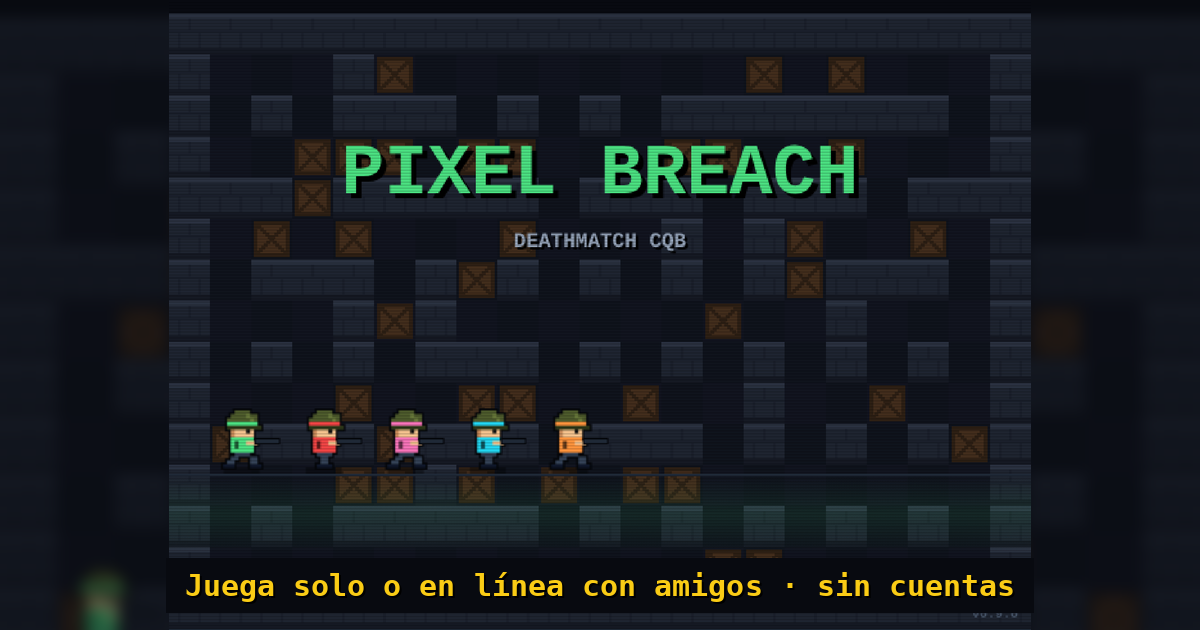
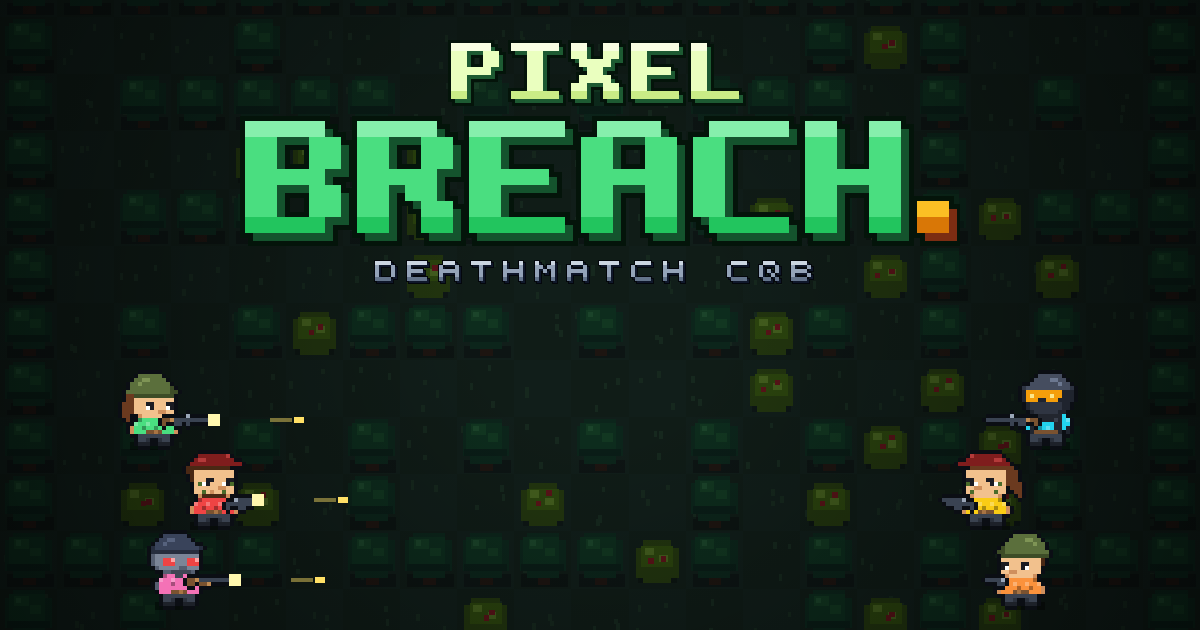
v0.13.3: batalla en la intro con disparos desde el arma e imagen nueva para compartir
Claude-Session: https://claude.ai/code/session_01QC5dV7wWsiQP6RrTtEYh97

diff --git a/js/intro.js b/js/intro.js
@@ -2,7 +2,6 @@
 // Pixel Breach — Intro animada
 // ---------- INTRO ANIMADA ----------
 let introT=0,introLogo=null;
-const INTRO_COLORS=['#4ade80','#ef4444','#f472b6','#22d3ee','#fb923c'];
 function drawIntro(){
  const _v=()=>txt('v'+VERSION,W-10,cv.height-12,10,'#475569','right',false);
  introT+=1/60;const t=introT;
@@ -21,18 +20,48 @@ function drawIntro(){
   ctx.drawImage(p.img,x,y);
  });
  ctx.globalAlpha=1;
- // escuadrón marchando
- const baseY=372,spd=70,gap=64,span=W+gap*6;
- INTRO_COLORS.forEach((c,i)=>{
-  const x=((t*spd+i*gap)%span)-gap*2,frame=Math.floor((t*8)+i)%2?1:2;
-  ctx.fillStyle='rgba(0,0,0,.35)';ctx.fillRect(x-14,baseY+26,28,5);
-  drawSkin(ctx,SKIN_KEYS[i%SKIN_KEYS.length],c,'right',frame,false,['rifle','smg','shotgun','pistol'][i%4],x,baseY+29,2); // el escuadrón luce todos los aspectos
-  if(i===0&&(t%1.6)<.08){ctx.fillStyle='#fff7ae';ctx.fillRect(x+30,baseY+4,7,8);}
- });
- if((t%1.6)<.6){const bx=(((Math.floor(t/1.6)*1.6)*spd)%span)-gap*2+36+((t%1.6)*500);ctx.fillStyle='#ffe066';ctx.fillRect(bx,baseY+4,6,3);}
- ctx.fillStyle='#1f2937';ctx.fillRect(0,baseY+31,W,2);
+ // pequeña batalla: dos equipos de 3 se disparan de lado a lado en tres carriles
+ introBattle(1/60,t);
  _v();
  if(t>1.8&&Math.floor(t*2)%2===0)txt(isTouch?'TOCA PARA CONTINUAR':'PRESIONA CUALQUIER TECLA',W/2,470,16,'#facc15','center');
+}
+// ---- batalla de la intro (solo visual) ----
+let battle=null;
+function initBattle(){
+ const lanes=[318,368,418],A=['#4ade80','#ef4444','#f472b6'],B=['#22d3ee','#fb923c','#facc15'];
+ const SA=['recruitF','commandoM','gas'],SB=['operator','recruitM','commandoF'],WA=['rifle','smg','shotgun'],WB=['rifle','pistol','smg'];
+ const mk=(team,i)=>{const home=team?W-90-[0,40,15][i]:90+[0,40,15][i];
+  return {team,lane:i,y:lanes[i],home,x:team?W+40+i*30:-40-i*30,skin:(team?SB:SA)[i],color:(team?B:A)[i],weapon:(team?WB:WA)[i],
+   cd:rnd(.8,1.6),hp:3,hurt:0,dead:0,ph:rnd(0,6)};};
+ battle={s:[0,1,2].map(i=>mk(0,i)).concat([0,1,2].map(i=>mk(1,i))),b:[],p:[]};
+}
+function introBattle(dt,t){
+ if(!battle)initBattle();
+ const B=battle;
+ for(const s of B.s){
+  if(s.dead>0){s.dead-=dt;if(s.dead<=0){s.hp=3;s.x=s.team?W+40:-40;s.cd=rnd(.8,1.4);}continue;}
+  s.hurt=Math.max(0,s.hurt-dt);s.ph+=dt;
+  const target=s.home+Math.sin(s.ph*.9)*14*(s.team?-1:1); // avanza y retrocede un poco
+  const dx=target-s.x;s.moving=Math.abs(dx)>1.5;s.x+=Math.sign(dx)*Math.min(Math.abs(dx),70*dt);
+  s.cd-=dt;
+  const ready=s.team?s.x<W-20:s.x>20;
+  if(s.cd<=0&&ready){s.cd=rnd(.7,1.5);const face=s.team?'left':'right',tp=gunTip(s.skin,face,s.weapon);
+   const mx=s.x+tp.dx,my=s.y+tp.dy;B.p.push({x:mx,y:my,t:.07,mz:1});B.b.push({x:mx,y:my,v:s.team?-460:460,team:s.team,lane:s.lane});}
+ }
+ for(const b of B.b){b.x+=b.v*dt;
+  const foe=B.s.find(o=>o.team!==b.team&&o.lane===b.lane&&o.dead<=0&&Math.abs(o.x-b.x)<10);
+  if(foe){b.dead=true;foe.hurt=.15;foe.hp--;for(let k=0;k<5;k++)B.p.push({x:foe.x,y:foe.y-4,vx:rnd(-60,60),vy:rnd(-80,20),t:.3,c:'#fca5a5'});
+   if(foe.hp<=0){foe.dead=1.6;for(let k=0;k<14;k++)B.p.push({x:foe.x,y:foe.y-6,vx:rnd(-120,120),vy:rnd(-160,40),t:.6,c:k%2?foe.color:'#e2e8f0'});}}
+  if(b.x<-20||b.x>W+20)b.dead=true;}
+ B.b=B.b.filter(b=>!b.dead);
+ for(const p of B.p){p.t-=dt;if(p.vx!==undefined){p.x+=p.vx*dt;p.y+=p.vy*dt;p.vy+=300*dt;}}
+ B.p=B.p.filter(p=>p.t>0);
+ // dibujo, de atrás hacia adelante
+ for(const s of B.s.slice().sort((a,b)=>a.y-b.y)){if(s.dead>0)continue;
+  ctx.fillStyle='rgba(0,0,0,.35)';ctx.fillRect(s.x-10,s.y+11,20,4);
+  drawSkin(ctx,s.skin,s.color,s.team?'left':'right',s.moving?(Math.floor(t*8+s.lane)%2?1:2):0,s.hurt>0,s.weapon,Math.round(s.x),s.y+13,2);}
+ for(const b of B.b){ctx.fillStyle='rgba(255,224,102,.45)';ctx.fillRect(b.x-(b.v>0?12:-6),b.y-1,6,2);ctx.fillStyle='#ffe066';ctx.fillRect(b.x-2,b.y-2,4,4);}
+ for(const p of B.p){if(p.mz){ctx.fillStyle='#fff7ae';ctx.fillRect(p.x-4,p.y-4,8,8);}else{ctx.fillStyle=p.c;ctx.fillRect(p.x-1,p.y-1,3,3);}}
 }
 function endIntro(){if(state!=='intro')return;state='title';audio();sfx('win');musicForState();}
 function render(){

diff --git a/tools/og.js b/tools/og.js
@@ -1,0 +1,24 @@
+// Genera og.png (1200 × 630), la imagen que muestran WhatsApp y otras apps al compartir el enlace.
+// Uso: node tools/og.js   (usa el mismo código del juego: logotipo, soldados y escenario)
+const {chromium}=require('playwright');const path=require('path');const fs=require('fs');
+(async()=>{
+ const b=await chromium.launch();const p=await b.newPage({viewport:{width:1300,height:800}});
+ await p.goto('file://'+path.resolve(__dirname,'../index.html'));await p.waitForTimeout(400);
+ const url=await p.evaluate(async()=>{
+  state='title';setTheme('jungle');genMap();fogOn=false;ents=[];
+  await new Promise(r=>setTimeout(r,200)); // deja que el juego dibuje el laberinto en el canvas
+  const W=1200,H=630,o=document.createElement('canvas');o.width=W;o.height=H;const g=o.getContext('2d');g.imageSmoothingEnabled=false;
+  const src=document.getElementById('c');g.drawImage(src,0,44,672,480,0,-40,W,W*480/672);
+  g.fillStyle='rgba(8,10,16,.62)';g.fillRect(0,0,W,H);
+  const vg=g.createRadialGradient(W/2,H/2,120,W/2,H/2,700);vg.addColorStop(0,'rgba(0,0,0,0)');vg.addColorStop(1,'rgba(0,0,0,.55)');g.fillStyle=vg;g.fillRect(0,0,W,H);
+  const logo=logoCanvas(8,true);g.drawImage(logo,Math.round((W-logo.width)/2),40);
+  const A=[['recruitF','#4ade80','rifle'],['commandoM','#ef4444','smg'],['gas','#f472b6','shotgun']],B=[['operator','#22d3ee','rifle'],['commandoF','#facc15','smg'],['recruitM','#fb923c','pistol']];
+  const ys=[420,500,580];
+  A.forEach(([k,c,w],i)=>{const x=150+[0,60,25][i],y=ys[i];g.fillStyle='rgba(0,0,0,.4)';g.fillRect(x-20,y+22,40,8);drawSkin(g,k,c,'right',0,false,w,x,y+26,4);
+   const t=gunTip(k,'right',w);g.fillStyle='#fff7ae';g.fillRect(x+t.dx*2-6,y+t.dy*2-6,12,12);g.fillStyle='#ffe066';g.fillRect(x+t.dx*2+80,y+t.dy*2-3,10,6);g.fillStyle='rgba(255,224,102,.45)';g.fillRect(x+t.dx*2+56,y+t.dy*2-2,22,4);});
+  B.forEach(([k,c,w],i)=>{const x=W-150-[0,60,25][i],y=ys[i];g.fillStyle='rgba(0,0,0,.4)';g.fillRect(x-20,y+22,40,8);drawSkin(g,k,c,'left',0,false,w,x,y+26,4);});
+  return o.toDataURL('image/png');
+ });
+ fs.writeFileSync(path.resolve(__dirname,'../og.png'),Buffer.from(url.split(',')[1],'base64'));
+ await b.close();console.log('og.png listo');
+})();

diff --git a/index.html b/index.html
@@ -11,11 +11,11 @@
 <meta property="og:title" content="Pixel Breach — Deathmatch CQB retro">
 <meta property="og:description" content="Juega solo contra IAs o crea una sala y comparte el enlace con tus amigos. Sin cuentas, en computadora o celular.">
 <meta property="og:url" content="https://chuckgarcia.github.io/pixel-breach/">
-<meta property="og:image" content="https://chuckgarcia.github.io/pixel-breach/og.png">
+<meta property="og:image" content="https://chuckgarcia.github.io/pixel-breach/og.png?v=0.13.3">
 <meta property="og:image:width" content="1200"><meta property="og:image:height" content="630">
 <meta property="og:image:alt" content="Pixel Breach: soldados pixelados en un laberinto">
 <meta name="twitter:card" content="summary_large_image">
-<meta name="twitter:image" content="https://chuckgarcia.github.io/pixel-breach/og.png">
+<meta name="twitter:image" content="https://chuckgarcia.github.io/pixel-breach/og.png?v=0.13.3">
[1 lines of base64/hex data omitted]
 <link rel="apple-touch-icon" href="apple-touch-icon.png">
 <link rel="manifest" href="manifest.json">

diff --git a/sw.js b/sw.js
@@ -1,7 +1,7 @@
 // Service worker de Pixel Breach: permite instalar el juego y jugar solo sin internet.
 // Siempre intenta la red primero (para recibir actualizaciones) y usa la copia guardada si no hay conexión.
 // La versión debe coincidir con VERSION en js/data.js (lo revisan las pruebas).
-const VERSION='0.13.2';
+const VERSION='0.13.3';
 const CACHE='pixel-breach-v'+VERSION;
 const FILES=['./','index.html','css/game.css','manifest.json','apple-touch-icon.png','icon192.png','icon512.png',
  'js/data.js','js/skins.js','js/logo.js','js/map.js','js/entities.js','js/ai.js','js/combat.js','js/audio.js','js/loop.js',

diff --git a/js/data.js b/js/data.js
@@ -2,7 +2,7 @@
 // Pixel Breach — Versión, constantes, escenarios, armas, roles y estado global
 // Versionado semántico vMAYOR.MENOR.PARCHE (ver CHANGELOG.md).
 // Cambios en el protocolo en línea suben MENOR: anfitrión e invitado deben coincidir en MAYOR.MENOR.
-const VERSION='0.13.2';
+const VERSION='0.13.3';
 const cv=document.getElementById('c'), ctx=cv.getContext('2d');
 const T=32,COLS=21,ROWS=15,HUD=44,W=COLS*T,H=ROWS*T;
 const FLOOR=0,WALL=1,CRATE=2,LAVA=3; // LAVA: no se puede pisar, pero las balas, granadas y la vista pasan por encima

diff --git a/CHANGELOG.md b/CHANGELOG.md
@@ -10,6 +10,12 @@ El formato sigue [Keep a Changelog](https://keepachangelog.com/es-ES/1.1.0/) y e
   anfitrión e invitados deben tener la misma versión MAYOR.MENOR para jugar juntos.
 - **PARCHE**: correcciones que no cambian cómo se juega en línea.
 
+## [0.13.3] - 2026-11-26
+
+### Cambiado
+- La intro muestra una pequeña batalla: dos equipos de tres soldados se disparan de lado a lado en tres carriles; los disparos salen de la boca de cada arma, los impactos echan chispas y quien cae vuelve a entrar.
+- Imagen nueva al compartir el enlace (WhatsApp y otras apps) con el logotipo y los soldados actuales. Se genera con `node tools/og.js`.
+
 ## [0.13.2] - 2026-11-26
 
 ### Cambiado

diff --git a/README.md b/README.md
@@ -1,6 +1,6 @@
 # Pixel Breach
 
-**Versión actual: v0.13.2** · [Historial de cambios](CHANGELOG.md)
+**Versión actual: v0.13.3** · [Historial de cambios](CHANGELOG.md)
 
 Deathmatch CQB retro en un laberinto, inspirado en Bomberman y Pac-Man.
 
